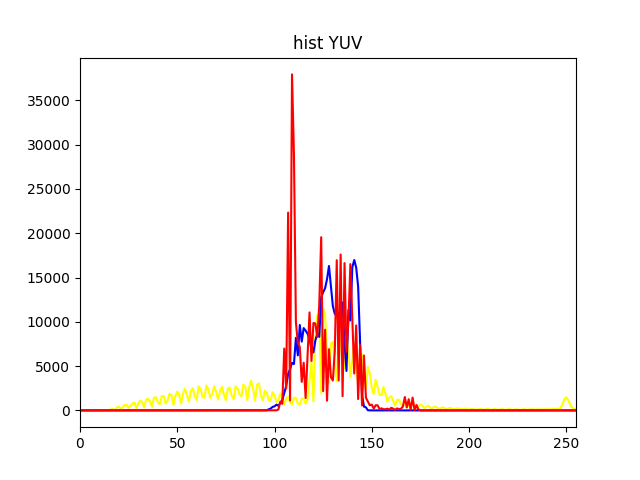
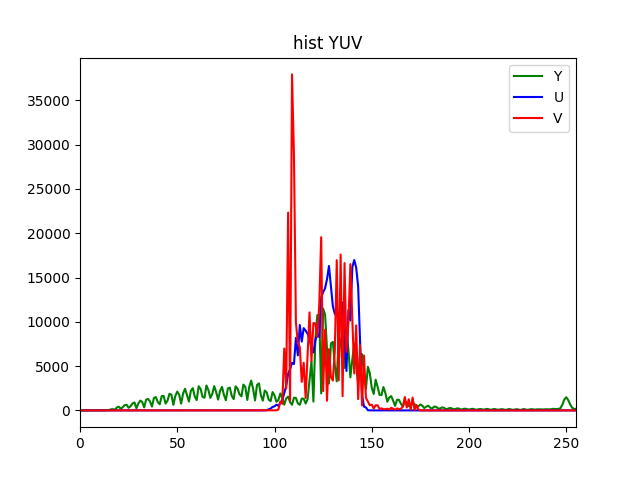
Improved YUV histogram

diff --git a/lab3-photo-static-features/tt.py b/lab3-photo-static-features/tt.py
@@ -1,3 +1,4 @@
+from cProfile import label
 import readline
 import matplotlib.pyplot as plt
 import numpy as np
@@ -72,7 +73,7 @@ def velv_hist(dirs):
 
 def YUV_hist(dirs):
     plt.figure()
-    for dir, col in zip(dirs, ["yellow", "blue", "red"]):
+    for dir, col, d in zip(dirs, ["green", "blue", "red"], ["Y", "U", "V"]):
         x = []
         with open(dir, "r+") as handle:
             c = handle.readline()
@@ -80,8 +81,9 @@ def YUV_hist(dirs):
                 c = float(c)
                 x.append(c)
                 c = handle.readline()
-        plt.plot(x, color=col)
+        plt.plot(x, color=col, label=d)
     plt.title("hist YUV")
+    plt.legend()
     plt.xlim([0, 255])
     plt.show()
 
